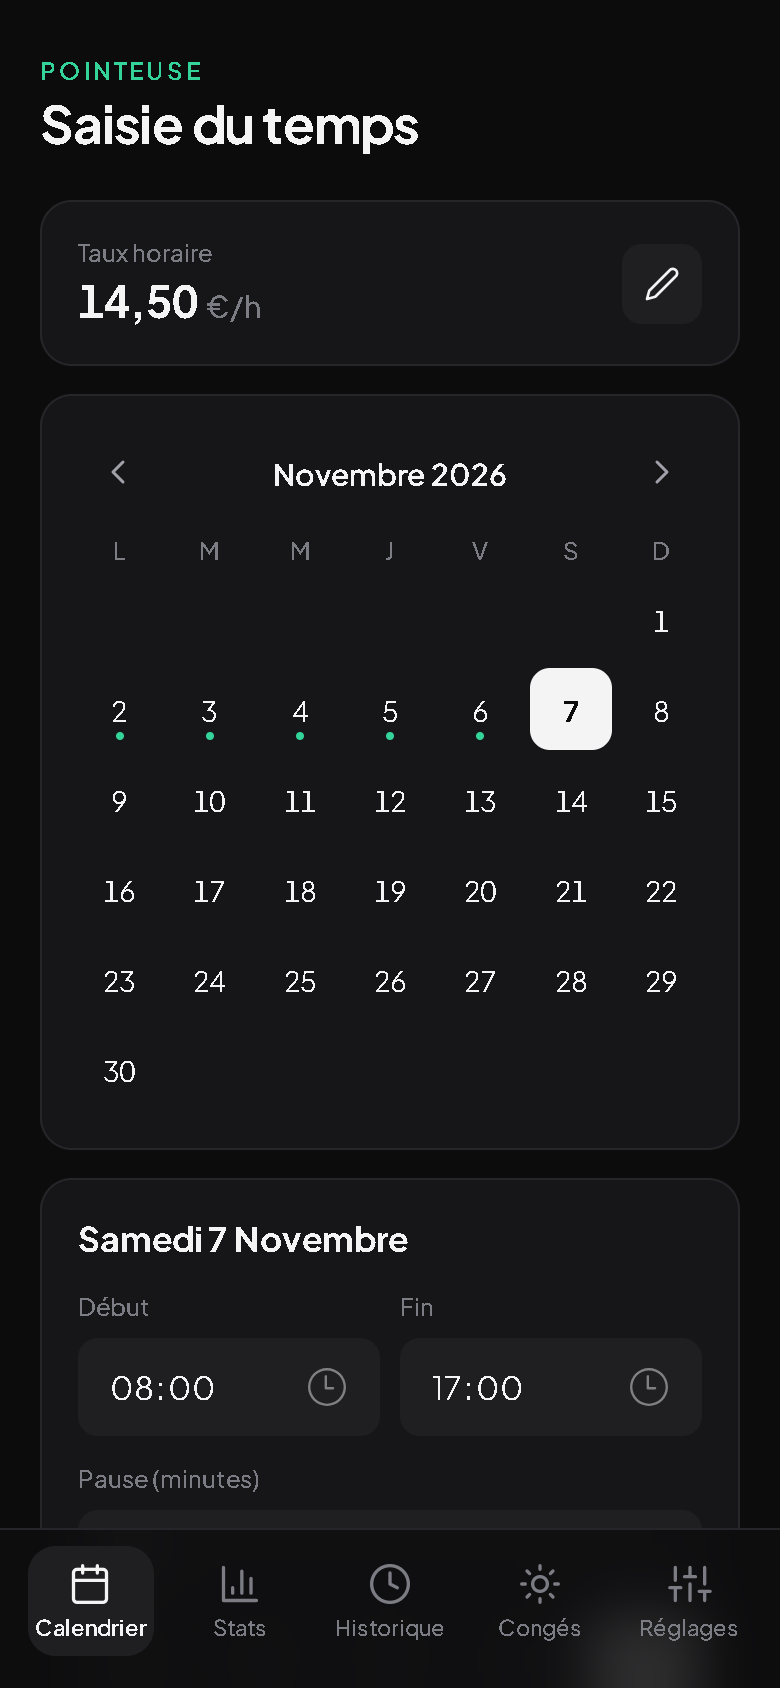
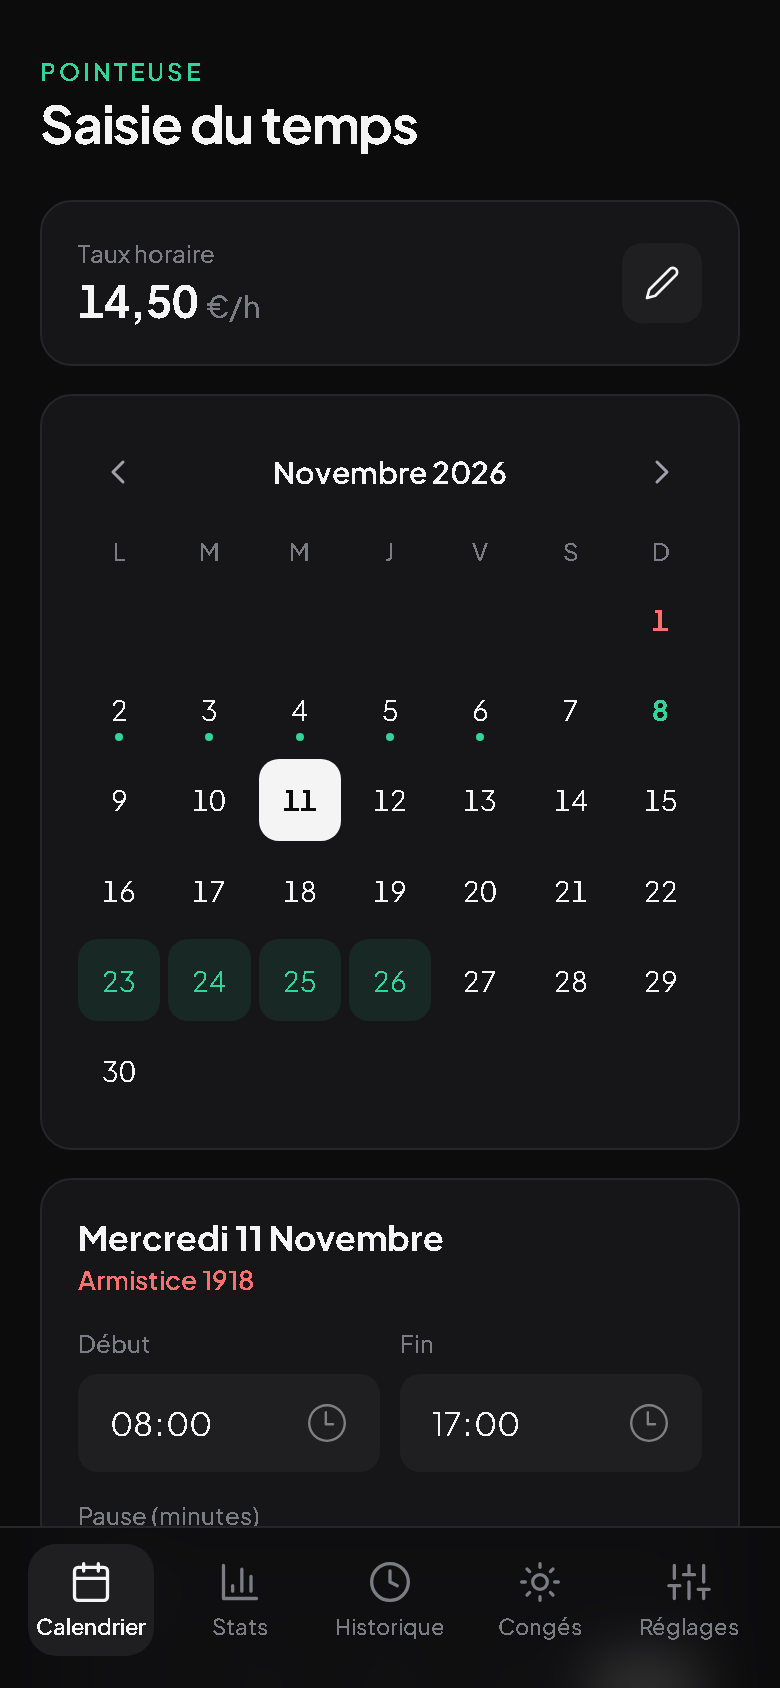
Refaire les captures avec les fériés et les types d'absence

diff --git a/README.md b/README.md
@@ -10,12 +10,12 @@
 
 <table>
   <tr>
-    <td align="center"><img src="screenshots/calendrier.png" alt="Écran Calendrier : taux horaire, calendrier du mois et saisie des heures" width="240"><br><b>Calendrier</b></td>
+    <td align="center"><img src="screenshots/calendrier.png" alt="Écran Calendrier : taux horaire, calendrier du mois avec jours fériés en rouge et congés, saisie des heures" width="240"><br><b>Calendrier</b></td>
     <td align="center"><img src="screenshots/statistiques.png" alt="Écran Statistiques : heures et salaire estimé par semaine, mois et période" width="240"><br><b>Statistiques</b></td>
     <td align="center"><img src="screenshots/historique.png" alt="Écran Historique : liste des journées avec heures et montant" width="240"><br><b>Historique</b></td>
   </tr>
   <tr>
-    <td align="center"><img src="screenshots/conges.png" alt="Écran Congés : jours restants, congés N-1 et N, pose d'un congé" width="240"><br><b>Congés payés</b></td>
+    <td align="center"><img src="screenshots/conges.png" alt="Écran Congés : jours restants, congés N-1 et N, pose d'un congé, d'un arrêt maladie ou d'une autre absence" width="240"><br><b>Congés payés</b></td>
     <td align="center"><img src="screenshots/reglages.png" alt="Écran Réglages : langue, monnaie, thème et style" width="240"><br><b>Réglages</b></td>
     <td align="center"><img src="screenshots/sauvegarde.png" alt="Bas de l'écran Réglages : exporter et importer une sauvegarde" width="240"><br><b>Sauvegarde</b></td>
   </tr>
